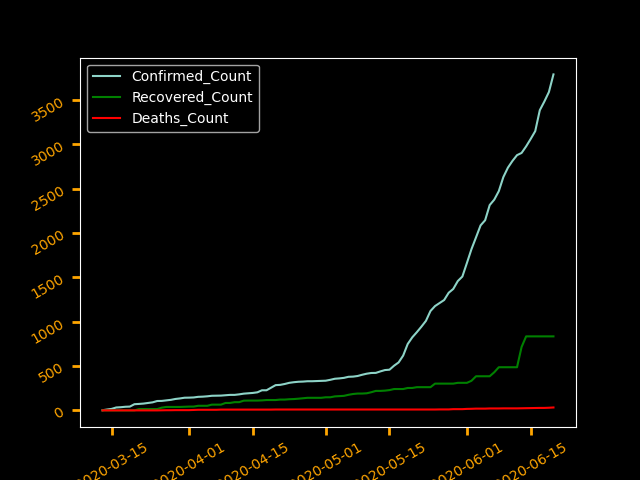
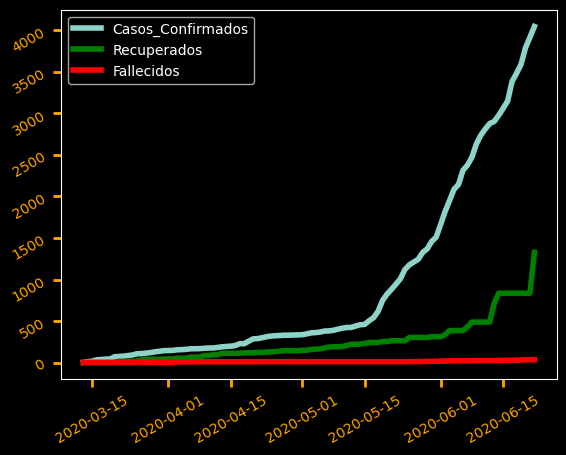
CSS

Changed region(s): [[0.03, 0.0308, 0.9611, 1.0], [0.7208, 0.0923, 0.9311, 0.5846], [0.9311, 0.0308, 0.9611, 0.0923]]

diff --git a/app/static/styles.css b/app/static/styles.css
@@ -2,6 +2,7 @@
     --color_a: rgb(255, 248, 248);
     --font_titles: "Anton", sans-serif;
     --size_titles: 30px;
+    --color_h2: #fff;
 }
 
 table,
@@ -74,54 +75,60 @@ th {
     right: 1rem;
     width: 500px;
     height: 300px;
-    background: #3b434b;
+    background: rgb(249,249,249);
+    background: radial-gradient(circle, rgba(249,249,249,1) 0%, rgba(52,58,64,1) 65%);
     border-radius: 10px;
 }
 
-.Cases h2 {
-    background-color: rgb(72, 81, 92);
-    color: rgb(224, 153, 20);
-    display: inline;
+.Cases {
+    position: relative;
+    top: 1rem;
+    background: rgb(242,182,25);
+    background: radial-gradient(circle, rgba(242,182,25,1) 8%, rgba(233,176,148,1) 65%);
+    height: 100px;
     padding: 0.2rem;
     border-radius: 10px;
-    position: relative;
-    top: 8rem;
+    
+}
+.Cases h2{
+    display: inline-block;
     font-family: var(--font_titles);
+    color: var(--color_h2);
 }
 
-.recovered h2 {
-    background-color: #fff;
-    color: rgb(38, 226, 32);
-    display: inline;
+.recovered {
+    position: relative;
+    margin-top: -5.40rem;
+    background: rgb(23,125,157);
+    background: linear-gradient(90deg, rgba(23,125,157,1) 40%, rgba(71,121,242,1) 96%);
+    height: 100px;
     padding: 0.2rem;
     border-radius: 10px;
-    position: relative;
-    top: 0.1rem;
-    right: -250px;
+        
+}
+.recovered h2{
+    display: inline-block;
     font-family: var(--font_titles);
+    color: var(--color_h2);
 }
 
-.Death h2 {
-    background-color: #fff;
-    color: red;
-    display: inline;
+.Death  {
+    position: relative;
+    top: 7rem;
+    background: rgb(157,54,23);
+    background: linear-gradient(90deg, rgba(157,54,23,1) 40%, rgba(242,71,80,1) 96%);
+    height: 100px;
     padding: 0.2rem;
     border-radius: 10px;
-    position: relative;
-    top: 10rem;
-    right: -250px;
+    
+}
+.Death h2{
+    display: inline-block;
     font-family: var(--font_titles);
+    color: var(--color_h2);
+    font-size: 30px;
 }
 
-.Death h2 {
-    background-color: #fff;
-    color: red;
-    display: inline;
-    padding: 0.2rem;
-    border-radius: 10px;
-    position: relative;
-    top: 8rem;
-}
 
 .date {
     display: inline;
@@ -136,18 +143,20 @@ th {
 
 /* Image Grahp*/
 
-.graph {
-    margin-top: 2rem;
-    display: block;
+.Container {
+    margin-top: 1rem;
     background-color: black;
-    height: 800px;
+    
 }
-
-.graph img {
-    position: relative;
-    width: 600px;
+.graph {
+    position:relative;
+    display:inline-block;
 }
-
+.graph_log {
+    position:absoulte;
+    display:inline-block;
+    
+}
 
 /* buttom*/
 

diff --git a/app/templates/index.html b/app/templates/index.html
@@ -10,22 +10,26 @@
 
 <!-- Total de casos -->{% block Cases %}
 <div class="Cases">
-    <h2> Cases: {{max_Count.Confirmed_Count}} </h2>
+    <h2> Casos: {{max_Count.Confirmed_Count}} </h2>
 </div>
 {% endblock %}
 <!-- Fin Total de casos -->
 <!-- Total de Fallecidos -->{% block Deaths %}
 <div class="Death">
-    <h2> Death: {{deathsCount.deaths}} </h2>
+    <h2> Fallecidos: {{deathsCount.deaths}} </h2>
 </div>
 {% endblock %}
 <!-- Fin del total de Fallecidos -->
 <!-- Total Recuperados -->{% block Recovered %}
 <div class="recovered">
-    <h2> recovered: {{recovered.recovered}} </h2>
+    <h2> Recuperados: {{recovered.recovered}} </h2>
 </div>
 {% endblock %}
 <!-- Fin del total de Recuperados -->{% block Graph %}
 <div class="graph">
     <img src="{{url_for('static', filename='graph.png')}}" />
+</div>
+<!-- Graph Log-->
+<div class="graph_log">
+    <img src="{{url_for('static', filename='graph_log.png')}}" />
 </div>{% endblock %}

diff --git a/app/data.py b/app/data.py
@@ -1,12 +1,17 @@
 from app.getdata import getData
+from datetime import datetime
+
+import numpy as np
 import pandas as pd 
 import seaborn as sns
 import matplotlib.pyplot as plt
-from datetime import datetime
 import matplotlib.dates as mdates
+import exifread
+
 
 
 URL = 'https://covid19.patria.org.ve/api/v1/timeline'
+
 
 df = pd.DataFrame(getData(URL), columns=['Date','DateTS','Confirmed_Count','Confirmed_New','Recovered_Count',\
     'Recovered_New','Deaths_Count','Deaths_New','Active_Count'])
@@ -16,14 +21,34 @@ df = df.drop(['DateTS','Recovered_New','Deaths_New','Active_Count'], axis=1)
 df_tail = df.tail()
 now = datetime.today().strftime('%B %d %Y' )
 
+def general_graph():
+    plt.figure()
+    plt.style.use('dark_background')
+    plt.plot(df['Date'], df['Confirmed_Count'] ,label = "Casos_Confirmados",linewidth=4.0)
+    plt.plot(df['Date'], df['Recovered_Count'], color='green',label = "Recuperados",linewidth=4.0)
+    plt.plot(df['Date'], df['Deaths_Count'],  color='red',label = "Fallecidos",linewidth=4.0)
+    plt.tick_params(direction='out', length=6, width=2, colors='orange',\
+                grid_color='r', grid_alpha=0.5,labelrotation= 30.0)
+    plt.legend()
+    plt.savefig('app/static/graph.png', bbox_inches='tight')
+    
+    return 
+    
 
-plt.style.use('dark_background')
 
-plt.plot(df['Date'], df['Confirmed_Count'] ,label = "Confirmed_Count")
-plt.plot(df['Date'], df['Recovered_Count'], color='green',label = "Recovered_Count")
-plt.plot(df['Date'], df['Deaths_Count'],  color='red',label = "Deaths_Count")
-plt.tick_params(direction='out', length=6, width=2, colors='orange',\
-            grid_color='r', grid_alpha=0.5,labelrotation= 30.0)
-plt.legend()
+def log_graph():
+    x = df['Date']
+    y = df['Confirmed_Count']
+    plt.figure()
+    plt.style.use('dark_background')
+    
 
-plt.savefig('app/static/graph.png')
+    plt.plot(x,y,label = 'Log_Confirmados',color='yellow',linewidth=4.0)
+    plt.yscale('log')
+    plt.grid(True, which="both", linestyle='--')
+    plt.tick_params(direction='out', length=6, width=2, colors='orange',\
+                    grid_color='r', grid_alpha=0.5,labelrotation= 30.0)
+    plt.legend()
+    plt.savefig('app/static/graph_log.png', bbox_inches='tight')
+    return 
+

diff --git a/app/routes.py b/app/routes.py
@@ -1,14 +1,22 @@
 from app import app
 from flask import render_template, url_for
 
-
-
 from app.getdata import getData
 from app.data import *
+
+general_graph()
+log_graph()
 
 @app.route('/')
 @app.route('/index', methods=('POST', 'GET'))
 def index():
+    """Return Template for flask
+
+    Returns:
+        max_Count: Value max count cases
+        time : date today
+        deathsCount: Value Deaths 
+    """
     max_Count = {'Confirmed_Count' : df['Confirmed_Count'].max()}
     time = {'now': now} 
     deathsCount = {'deaths': df['Deaths_Count'].max()}

diff --git a/app/pytest/test_getdata.py b/app/pytest/test_getdata.py
@@ -1,6 +1,6 @@
 import requests
 
-def getData(URL):
+def test_getData(URL):
     
     """ Return list that contained several lists,
         these list are resources to DataFrame.
@@ -38,5 +38,4 @@ def getData(URL):
     for i in range(len(data)):
         Active_Count.append(data[i]['Active']['Count'])
     x = list(zip(Date,DateTS,Confirmed_Count,Confirmed_New,Recovered_Count,Recovered_New,Deaths_Count,Deaths_New,Active_Count))
-    return x
-
+    assert type(x) == list
